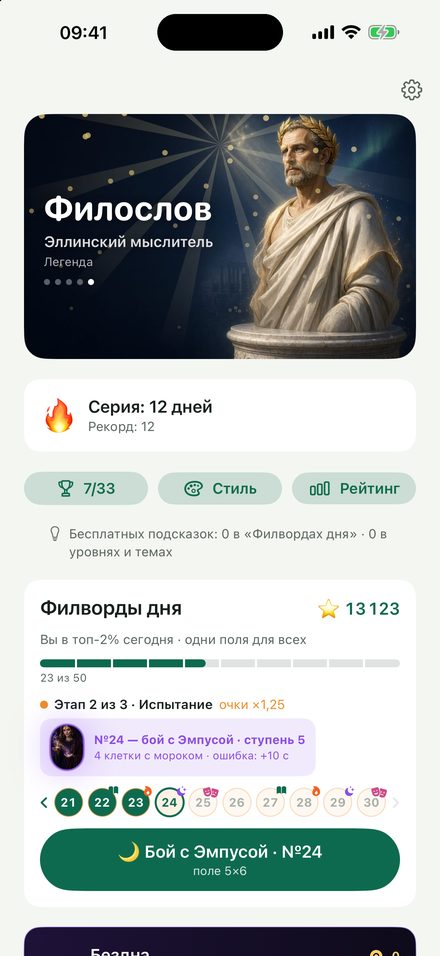
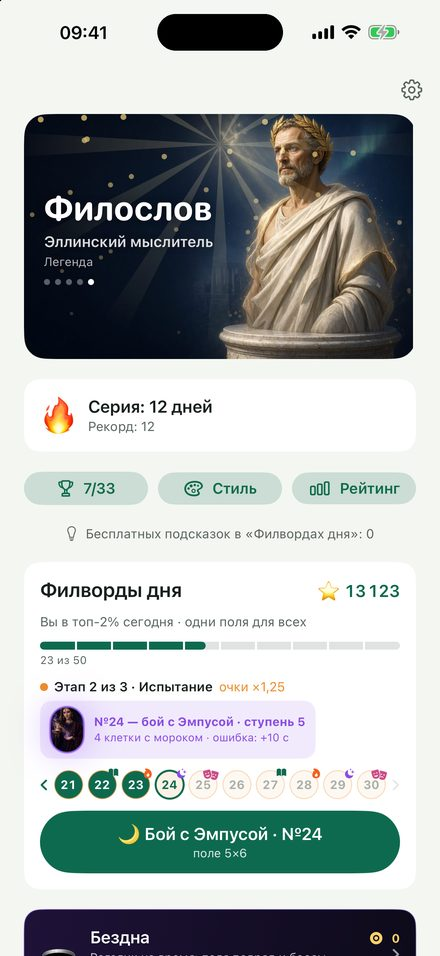
Сайт: баланс Бездны, 20 званий, 10 трофеев, кодекс на 90 боёв

diff --git a/support/index.html b/support/index.html
@@ -78,7 +78,7 @@ footer { color:var(--muted); font-size:14px; margin-top:48px; border-top:1px sol
 <h2>Кто такая Эмпуса?</h2>
 <p>Чародейка из свиты Гекаты. «Морок» — несколько клеток показывают не ту букву, пока вы не проведёте через них пальцем; «Соблазн» — на поле мерцает ложное слово (повёлся — ошибка и +5 с); «Похищенный миг» — ошибка добавляет 10 с; «Чары» — раз в 30–40 секунд две соседние буквы на 3 секунды меняются местами.</p>
 <h2>Что такое Бездна?</h2>
-<p>Забег на время: старт с 3:00, +6 с за слово, +20 с за поле, ошибка −3 с. Каждое третье поле — бой со случайным злодеем, после поля — одно благословение из трёх. Забег недели одинаковый у всех, в рейтинг идёт лучший. За глубину — звания и стили, за забеги — оболы Харона на косметику в Лавке, за победы над боссами — трофеи. Силы вне забега награды не дают.</p>
+<p>Забег на время: старт с 3:00, +5 с за слово, +17 с за поле, ошибка −3 с. Каждое третье поле — бой со случайным злодеем, после поля — одно благословение из трёх. Забег недели одинаковый у всех, в рейтинг идёт лучший. 20 званий до сотого поля, 10 трофеев боссов, кодекс на 90 боёв и история трёх последних забегов. За забеги, звания и трофеи — оболы Харона на косметику в Лавке. Силы вне забега награды не дают.</p>
 <h2>Что такое ульта наставника?</h2>
 <p>Шкала силы копится найденными буквами. С 80% ульту можно взять за ролик, на 100% — бесплатно; после неё шкала сгорает. Одна ульта на поле. У «Филвордов дня» своя шкала и своя копилка подсказок.</p>
 <h2>Не вижу себя в рейтинге</h2>

diff --git a/build.py b/build.py
@@ -136,7 +136,7 @@ SUPPORT = f"""
 <h2>Кто такая Эмпуса?</h2>
 <p>Чародейка из свиты Гекаты. «Морок» — несколько клеток показывают не ту букву, пока вы не проведёте через них пальцем; «Соблазн» — на поле мерцает ложное слово (повёлся — ошибка и +5 с); «Похищенный миг» — ошибка добавляет 10 с; «Чары» — раз в 30–40 секунд две соседние буквы на 3 секунды меняются местами.</p>
 <h2>Что такое Бездна?</h2>
-<p>Забег на время: старт с 3:00, +6 с за слово, +20 с за поле, ошибка −3 с. Каждое третье поле — бой со случайным злодеем, после поля — одно благословение из трёх. Забег недели одинаковый у всех, в рейтинг идёт лучший. За глубину — звания и стили, за забеги — оболы Харона на косметику в Лавке, за победы над боссами — трофеи. Силы вне забега награды не дают.</p>
+<p>Забег на время: старт с 3:00, +5 с за слово, +17 с за поле, ошибка −3 с. Каждое третье поле — бой со случайным злодеем, после поля — одно благословение из трёх. Забег недели одинаковый у всех, в рейтинг идёт лучший. 20 званий до сотого поля, 10 трофеев боссов, кодекс на 90 боёв и история трёх последних забегов. За забеги, звания и трофеи — оболы Харона на косметику в Лавке. Силы вне забега награды не дают.</p>
 <h2>Что такое ульта наставника?</h2>
 <p>Шкала силы копится найденными буквами. С 80% ульту можно взять за ролик, на 100% — бесплатно; после неё шкала сгорает. Одна ульта на поле. У «Филвордов дня» своя шкала и своя копилка подсказок.</p>
 <h2>Не вижу себя в рейтинге</h2>
